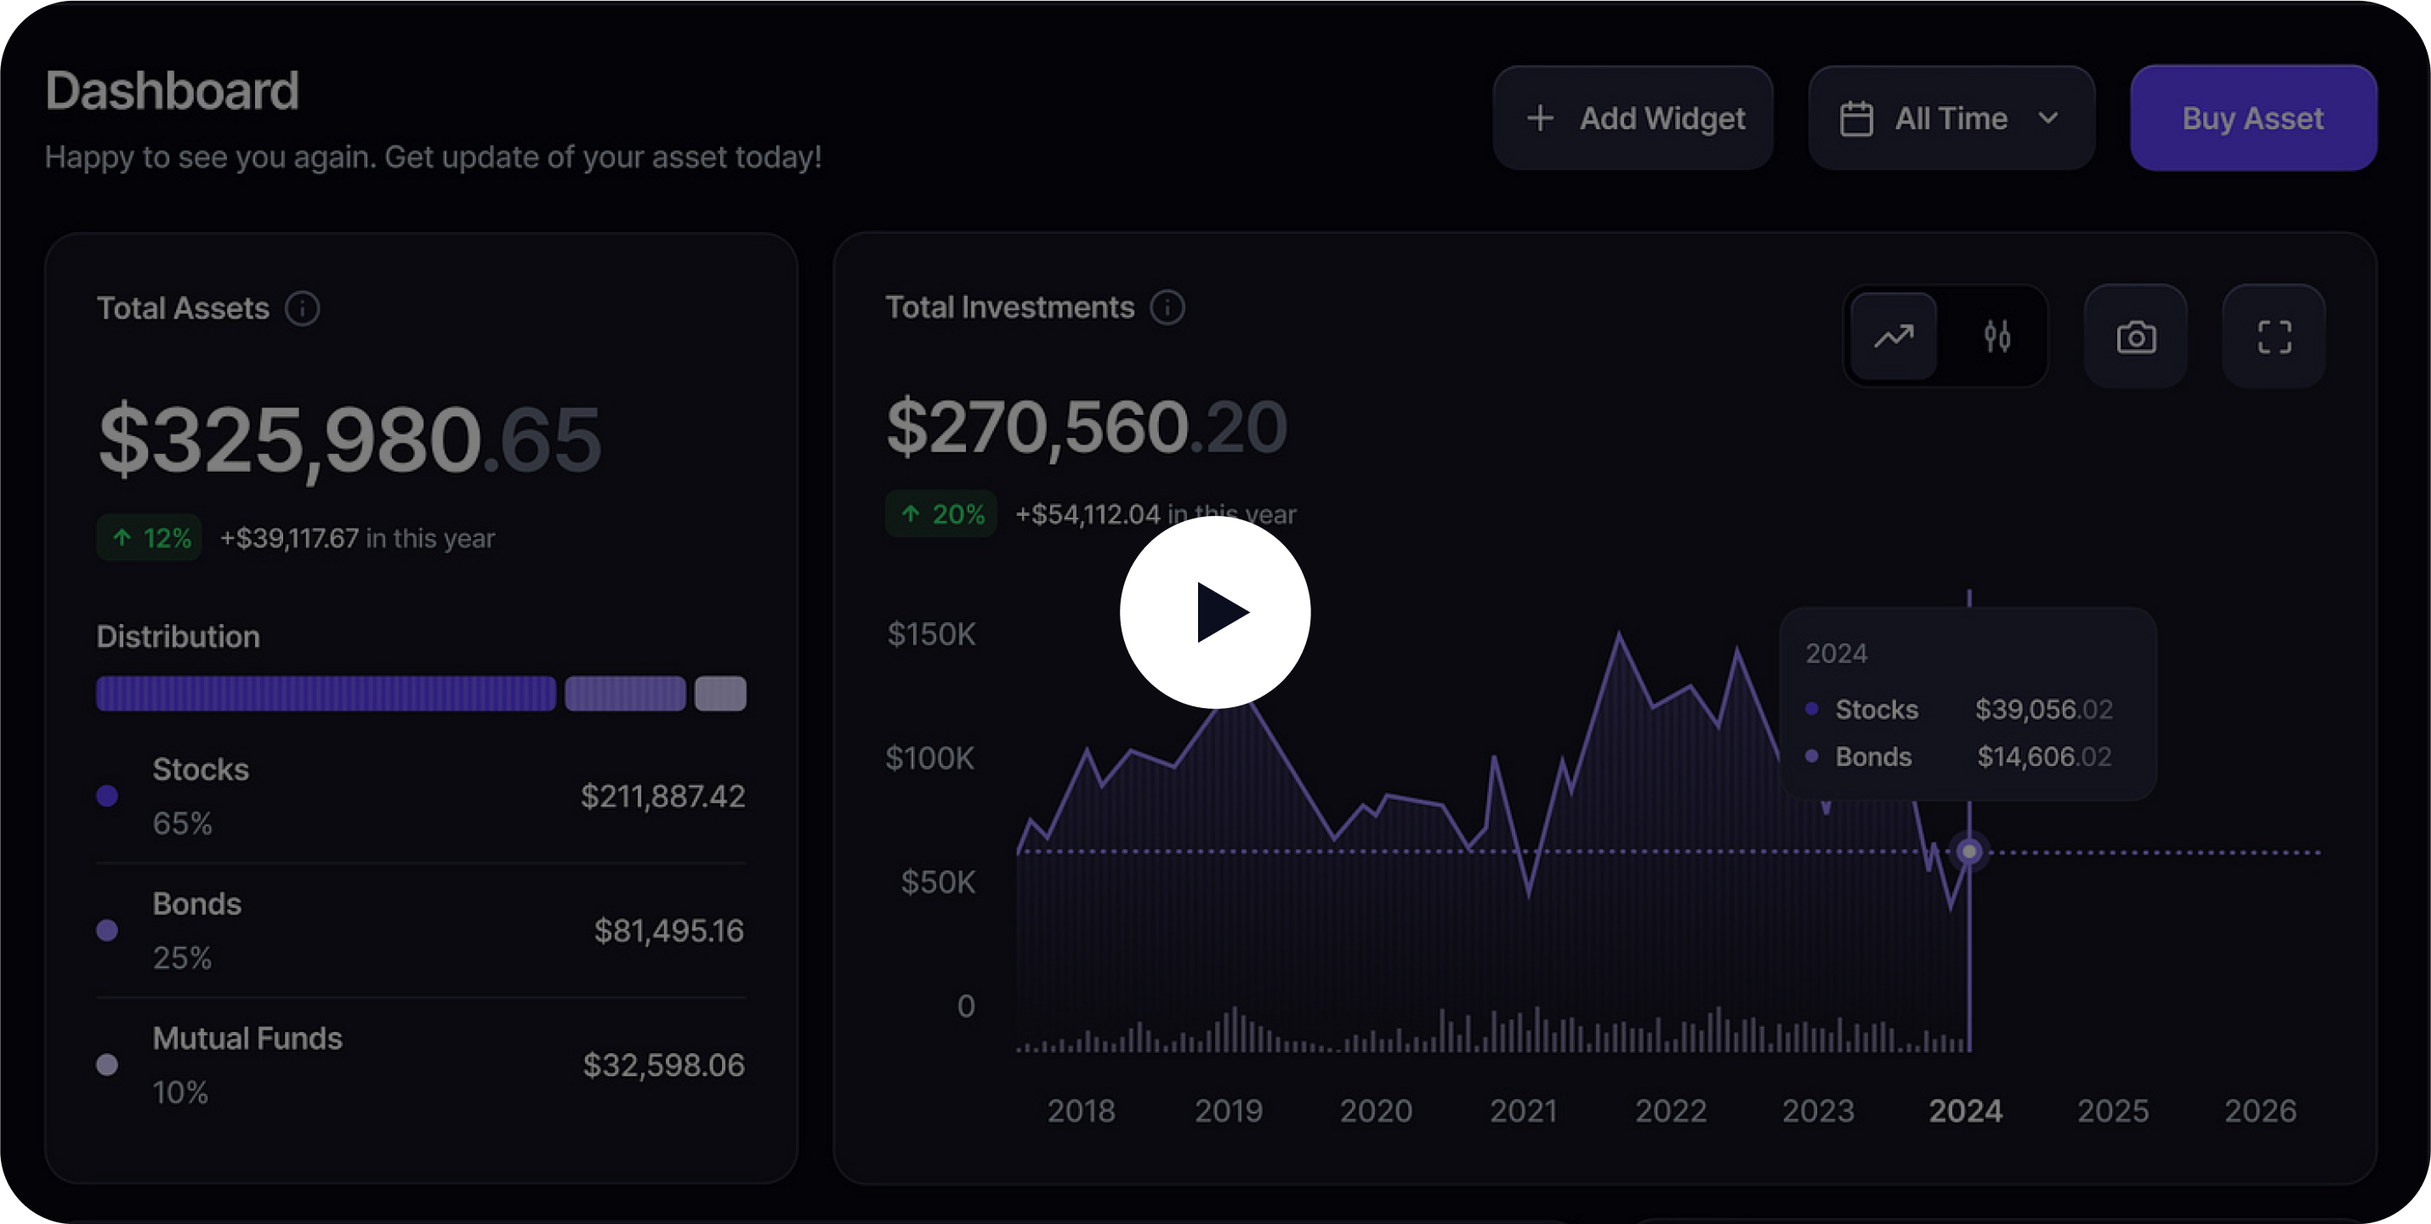
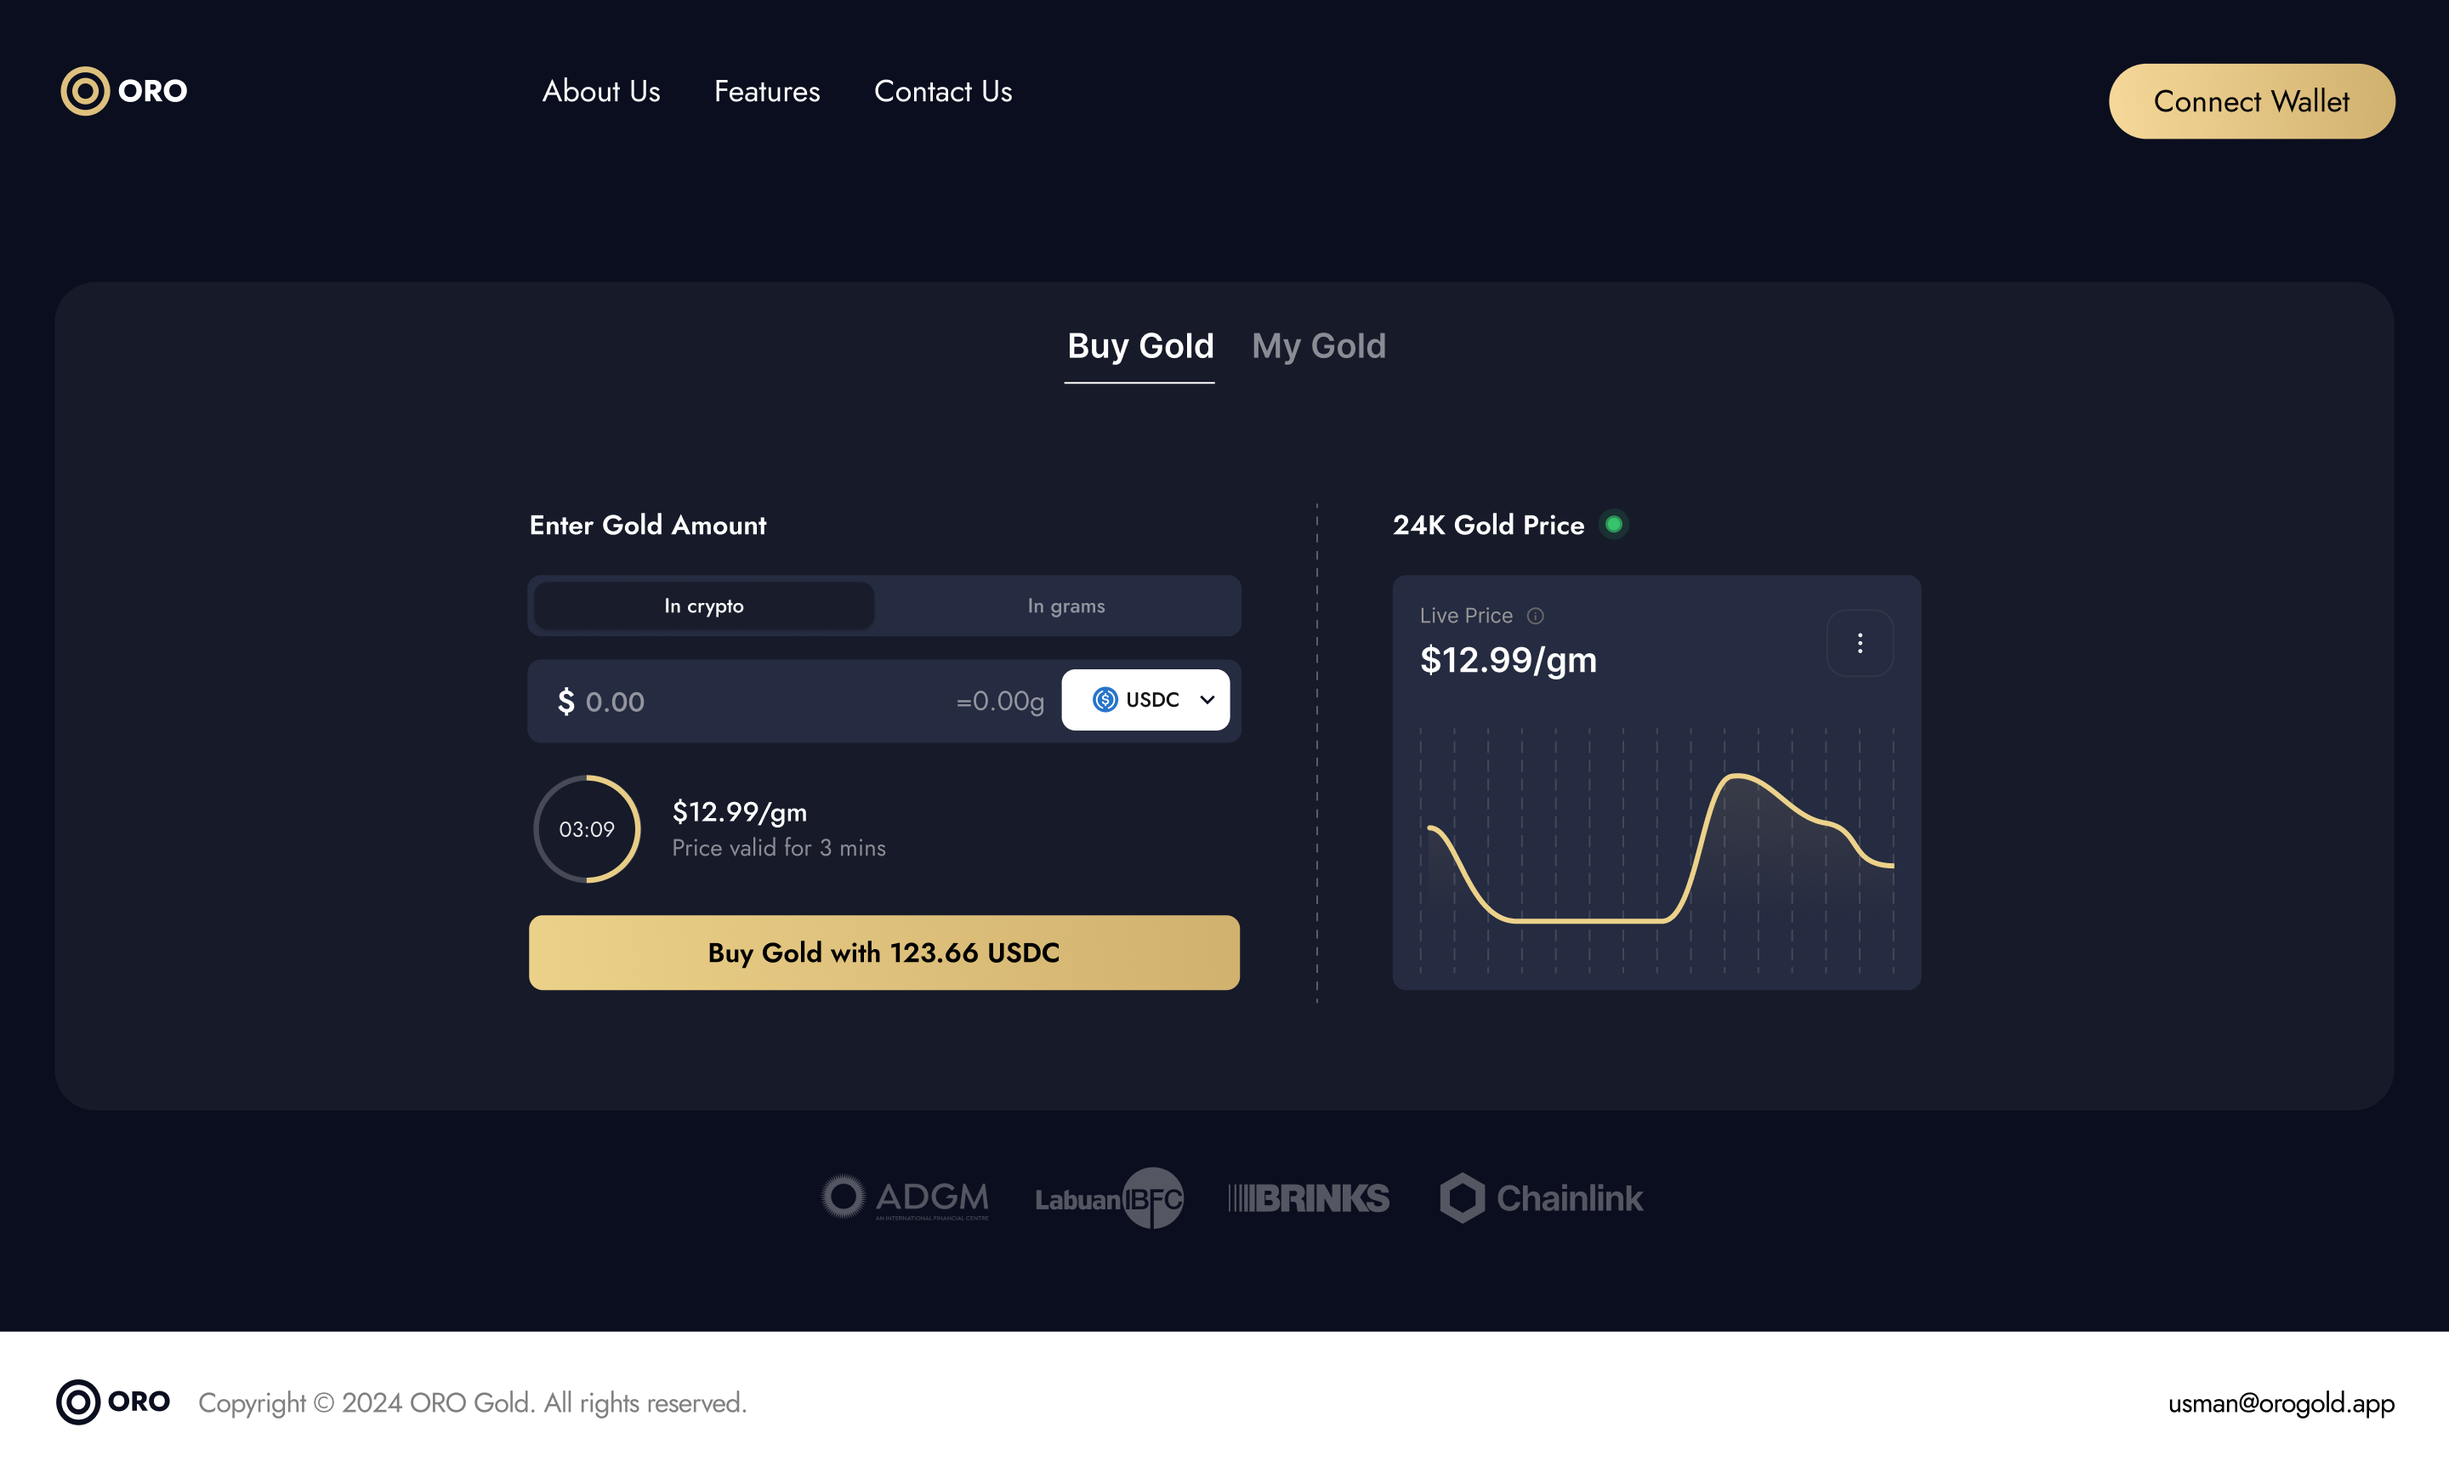
updated navbar, click to scroll and updated navbar

diff --git a/components/Hero.tsx b/components/Hero.tsx
@@ -1,36 +1,42 @@
+//@ts-nocheck
 import React from "react";
 import Logo from "./RoundLogo";
 import Button from "./Button"
-import Navbar from "./Navbar";
 import NewNavbar from "./NewNavbar";
-export default function hero() {
+
+export default function Hero({ benefitsRef }) {
+  const scrollToBenefits = () => {
+    benefitsRef.current?.scrollIntoView({ behavior: 'smooth' });
+  };
+
   return (
     <div>
-      {/* <Navbar/> */}
-      <NewNavbar/>
-    <div className="w-full h-[72vh] sm:h-[75vh] flex flex-col justify-center text-white items-center">
-      
-      <div className="flex flex-col justify-center items-center sm:gap-4 gap-3  ">
-        <Logo />
-
-        <div className="text-center">
-          <p className=" leading-10 text-[7vw]  font-grotesk sm:text-[36px] font-semibold">
-            Stable & High Quality Yield
+      <NewNavbar />
+      <div className="w-full h-[72vh] sm:h-[75vh] flex flex-col justify-center text-white items-center">
+        <div className="flex flex-col justify-center items-center sm:gap-4 gap-3 ">
+          <Logo />
+          <div className="text-center">
+            <p className="leading-10 text-[7vw] font-grotesk sm:text-[36px] font-semibold">
+              Stable & High Quality Yield
+            </p>
+            <p className="leading-10 font-grotesk text-[7vw] sm:text-[36px] font-semibold">
+              from{" "}
+              <span className="text-transparent bg-gradient-to-r from-[#F5D89A] to-[#D1B16F] bg-clip-text inline-block">
+                Tokenised Gold
+              </span>
+            </p>
+          </div>
+          <p className="font-jost text-white/60 text-xl text-center ">
+            Institutional Grade. Regulated. Transparent. Invest as low as $1
           </p>
-          <p className=" leading-10 font-grotesk text-[7vw]  sm:text-[36px] font-semibold">
-            from{" "}
-            <span className="text-transparent bg-gradient-to-r from-[#F5D89A] to-[#D1B16F] bg-clip-text inline-block ">
-              Tokenised Gold
-            </span>
-          </p>
+          <div className="flex gap-6 mt-5 items-center scale-90 sm:scale-100">
+            <Button text={"Why ORO?"} onClick={scrollToBenefits} />
+            <p className="underline font-jost text-[22px] text-white/90 scale-90 sm:scale-100 ">
+              Security
+            </p>
+          </div>
         </div>
-
-        <p className="font-jost text-white/60 text-xl text-center ">Institutional Grade. Regulated. Transparent. Invest as low as $1</p>
-
-        <div className="flex gap-6 mt-5 items-center scale-90 sm:scale-100"><Button text={"Why ORO?"}/>
-        <p className="underline font-jost  text-[22px] text-white/90 scale-90 sm:scale-100 ">Security</p></div>
       </div>
-    </div>
     </div>
   );
 }

diff --git a/components/NewNavbar.tsx b/components/NewNavbar.tsx
@@ -22,7 +22,7 @@ export default function NewNavbar() {
         <button className="px-5 sm:px-8 mr-2   font-jost py-2 rounded-full bg-white text-black bg-gradient-to-r from-[#CFAF6C] to-[#F7DA9C] sm:text-lg">
         <a href="https://www.iown.xyz/early-access">Get Early Access</a>
     </button>
-          <button
+          {/* <button
             type="button"
             className="inline-flex items-center p-2 w-10 h-10 justify-center text-sm text-gray-500 rounded-lg md:hidden hover:bg-gray-100 focus:outline-none focus:ring-2 focus:ring-gray-200 dark:text-gray-400 dark:hover:bg-gray-700 dark:focus:ring-gray-600"
             aria-controls="navbar-sticky"
@@ -33,14 +33,14 @@ export default function NewNavbar() {
             <svg className="w-5 h-5" aria-hidden="true" xmlns="http://www.w3.org/2000/svg" fill="none" viewBox="0 0 17 14">
               <path stroke="currentColor" stroke-linecap="round" stroke-linejoin="round" stroke-width="2" d="M1 1h15M1 7h15M1 13h15" />
             </svg>
-          </button>
+          </button> */}
         </div>
         <div
           className={`items-center justify-between w-full md:flex md:w-auto md:order-1 border border-slate-700 rounded-md sm:border-none sm:mr-56
            ${isOpen ? 'block' : 'hidden'}`}
           
         >
-          <ul className="flex flex-col text-xl font-extralight p-4 md:p-0  md:space-x-8 rtl:space-x-reverse md:flex-row md:mt-0 md:border-0 font-jost text-white opacity-90">
+          {/* <ul className="flex flex-col text-xl font-extralight p-4 md:p-0  md:space-x-8 rtl:space-x-reverse md:flex-row md:mt-0 md:border-0 font-jost text-white opacity-90">
             <li>
               <a href="#" className="block py-2 px-2 hover:bg-[#cfb06cbe] hover:text-neutral-200 duration-500 rounded-md">
                 About Us
@@ -56,7 +56,7 @@ export default function NewNavbar() {
                 Contact Us
               </a>
             </li>
-          </ul>
+          </ul> */}
         </div>
       </div>
     </div>

diff --git a/app/page.tsx b/app/page.tsx
@@ -1,16 +1,49 @@
-import React from 'react'
+//@ts-nocheck
+"use client"
+// import React, { useRef } from 'react';
+// import Hero from '@/components/Hero';
+// import Benefits from '@/components/Benefits';
+// import EarlyAccess from '@/components/EarlyAccess';
+// import Footer from '@/components/Footer';
+
+// export default function Page() {
+//   // Create a ref for the target section (Benefits)
+//   const sectionRef = useRef(null);
+
+//   // Function to scroll to the Benefits section
+//   const handleScroll = () => {
+//     sectionRef.current?.scrollIntoView({ behavior: 'smooth' });
+//   };
+
+//   return (
+//     <div className="bg-[#0A0E1E] sm:px-10 px-3 w-full overflow-hidden">
+//       <Hero handleScroll={handleScroll} />
+//       <Benefits ref={sectionRef} />
+//       <EarlyAccess />
+//       <Footer />
+//     </div>
+//   );
+// }
+
+
+// page.tsx
+import React, { useRef } from 'react'
 import Hero from '@/components/Hero'
 import Benefits from '@/components/Benefits'
 import EarlyAccess from '@/components/EarlyAccess'
 import Footer from '@/components/Footer'
 
+export default function Page() {
+  // Create a ref for the benefits section
+  const benefitsRef = useRef(null);
 
-export default function page() {
   return (
     <div className='bg-[#0A0E1E] sm:px-10 px-3 w-full overflow-hidden'>
-      <Hero/>
-      <Benefits/>
-      <EarlyAccess/>      
+      <Hero benefitsRef={benefitsRef} />
+      <div ref={benefitsRef}>
+        <Benefits />
+      </div>
+      <EarlyAccess />
     </div>
   )
 }

diff --git a/components/Button.tsx b/components/Button.tsx
@@ -1,10 +1,24 @@
 //@ts-nocheck
-import React from "react";
+// import React from "react";
 
-export default function button({ text }) {
+// export default function button({ text }) {
+//   return (
+//     <div className="px-8  font-jost font-semibold py-2 rounded-full bg-white text-black bg-gradient-to-r from-[#CFAF6C] to-[#F7DA9C] text-lg">
+//       {text}
+//     </div>
+//   );
+// }
+
+
+import React from 'react';
+
+export default function Button({ text, onClick }) {
   return (
-    <div className="px-8  font-jost font-semibold py-2 rounded-full bg-white text-black bg-gradient-to-r from-[#CFAF6C] to-[#F7DA9C] text-lg">
+    <button 
+      onClick={onClick}
+      className="px-8  font-jost font-semibold py-2 rounded-full bg-white text-black bg-gradient-to-r from-[#CFAF6C] to-[#F7DA9C] text-lg"
+    >
       {text}
-    </div>
+    </button>
   );
 }

diff --git a/components/Navbar.tsx b/components/Navbar.tsx
@@ -14,9 +14,9 @@ export default function Navbar() {
       </div>
 
       <div className='flex gap-6 text-xl font-extralight opacity-90 mr-60'>
-        <p>About Us</p>
+        {/* <p>About Us</p>
         <p>Features</p>
-        <p>Contact Us</p>
+        <p>Contact Us</p> */}
       </div>
 
       <div className="px-8  font-jost py-2 rounded-full bg-white text-black bg-gradient-to-r from-[#CFAF6C] to-[#F7DA9C] text-lg">

diff --git a/components/Footer.tsx b/components/Footer.tsx
@@ -14,7 +14,7 @@ export default function Footer() {
 
         </div>
 
-        <p className='text-[3vw] sm:text-base mt-4 sm:mt-0'>usman@orogold.app</p>
+        <p className='text-[3vw] sm:text-base mt-4 sm:mt-0'>info@orogold.app</p>
     </div>
   )
 }
